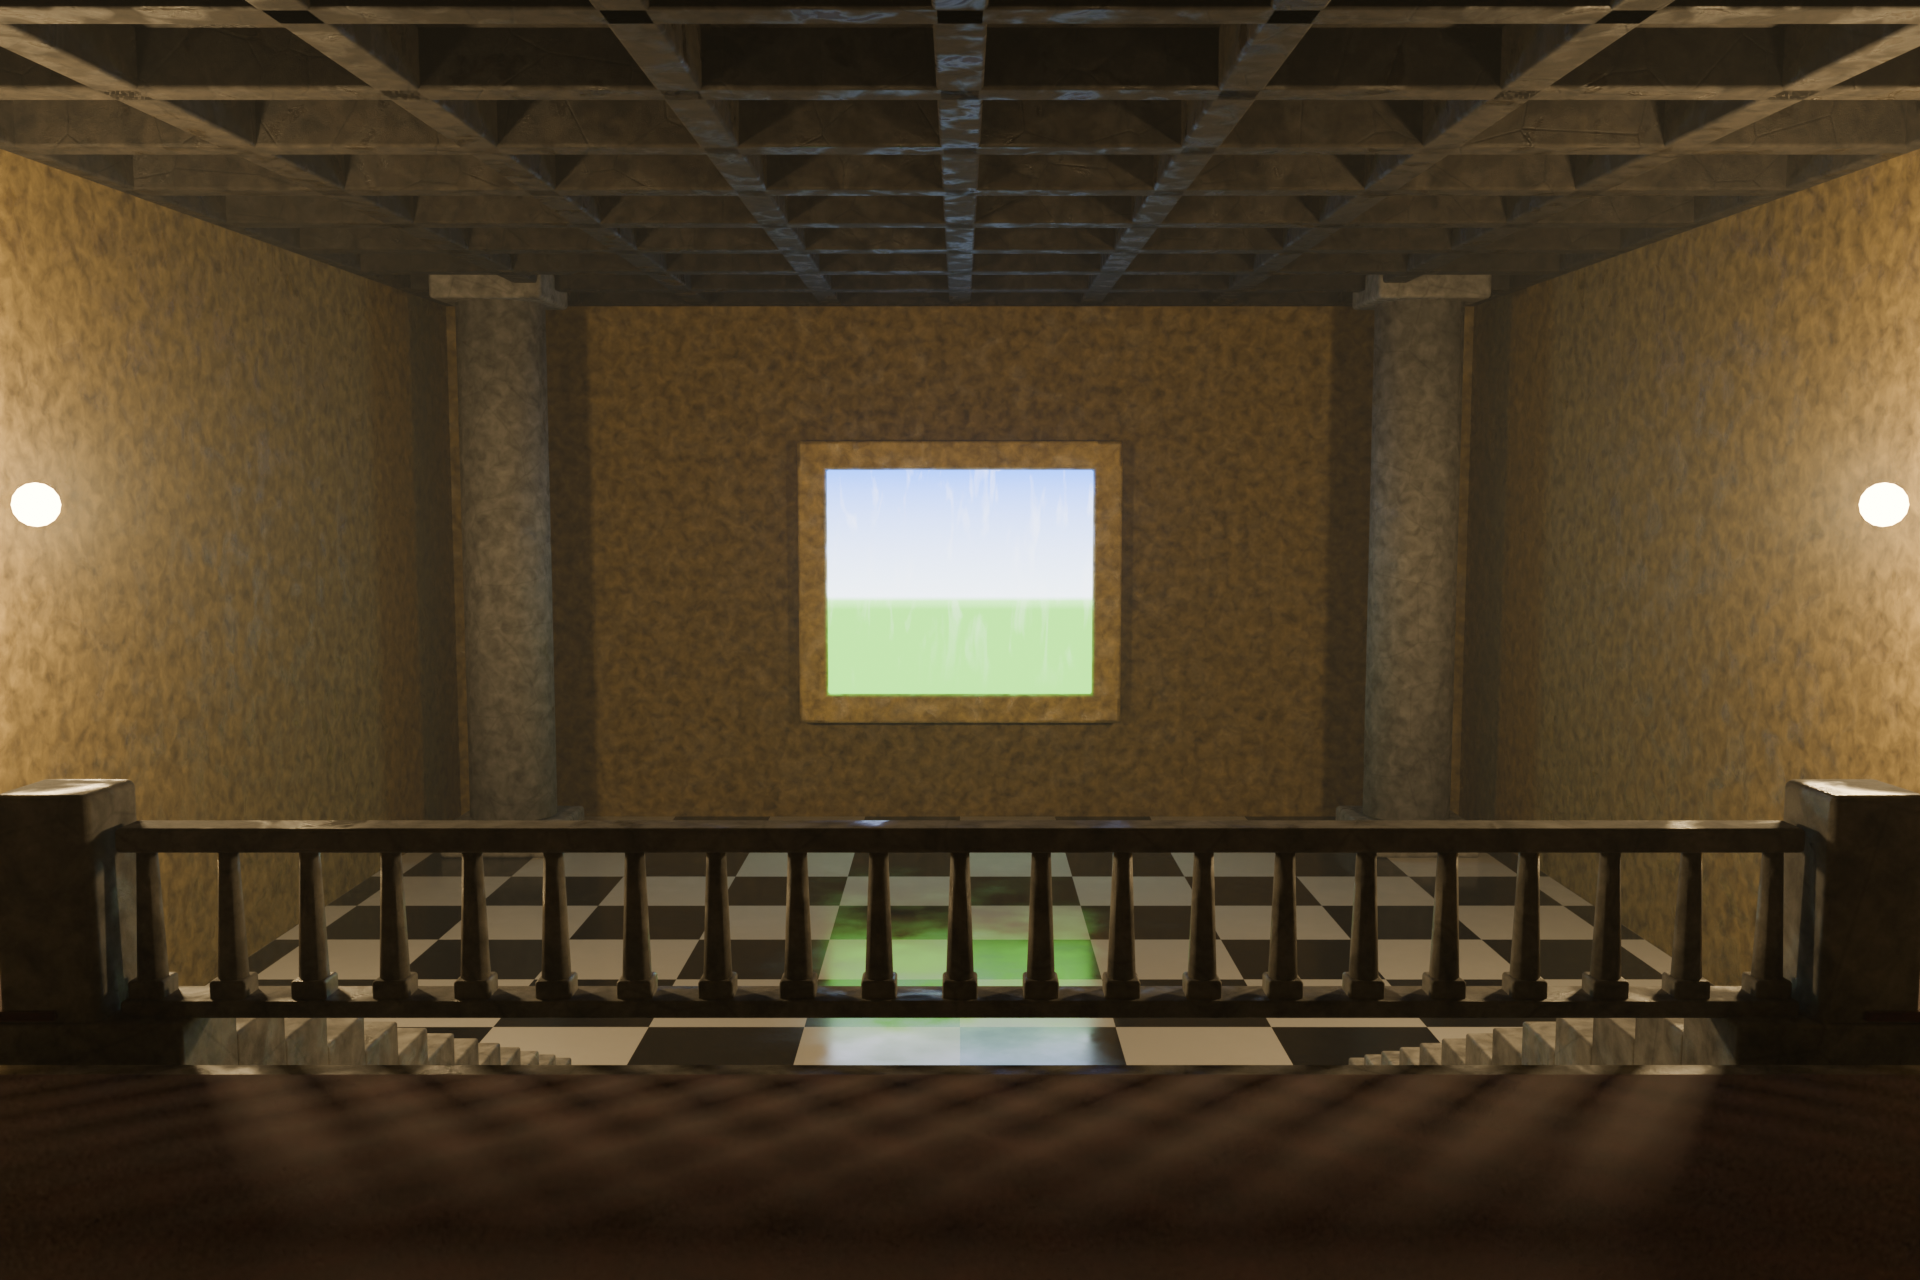
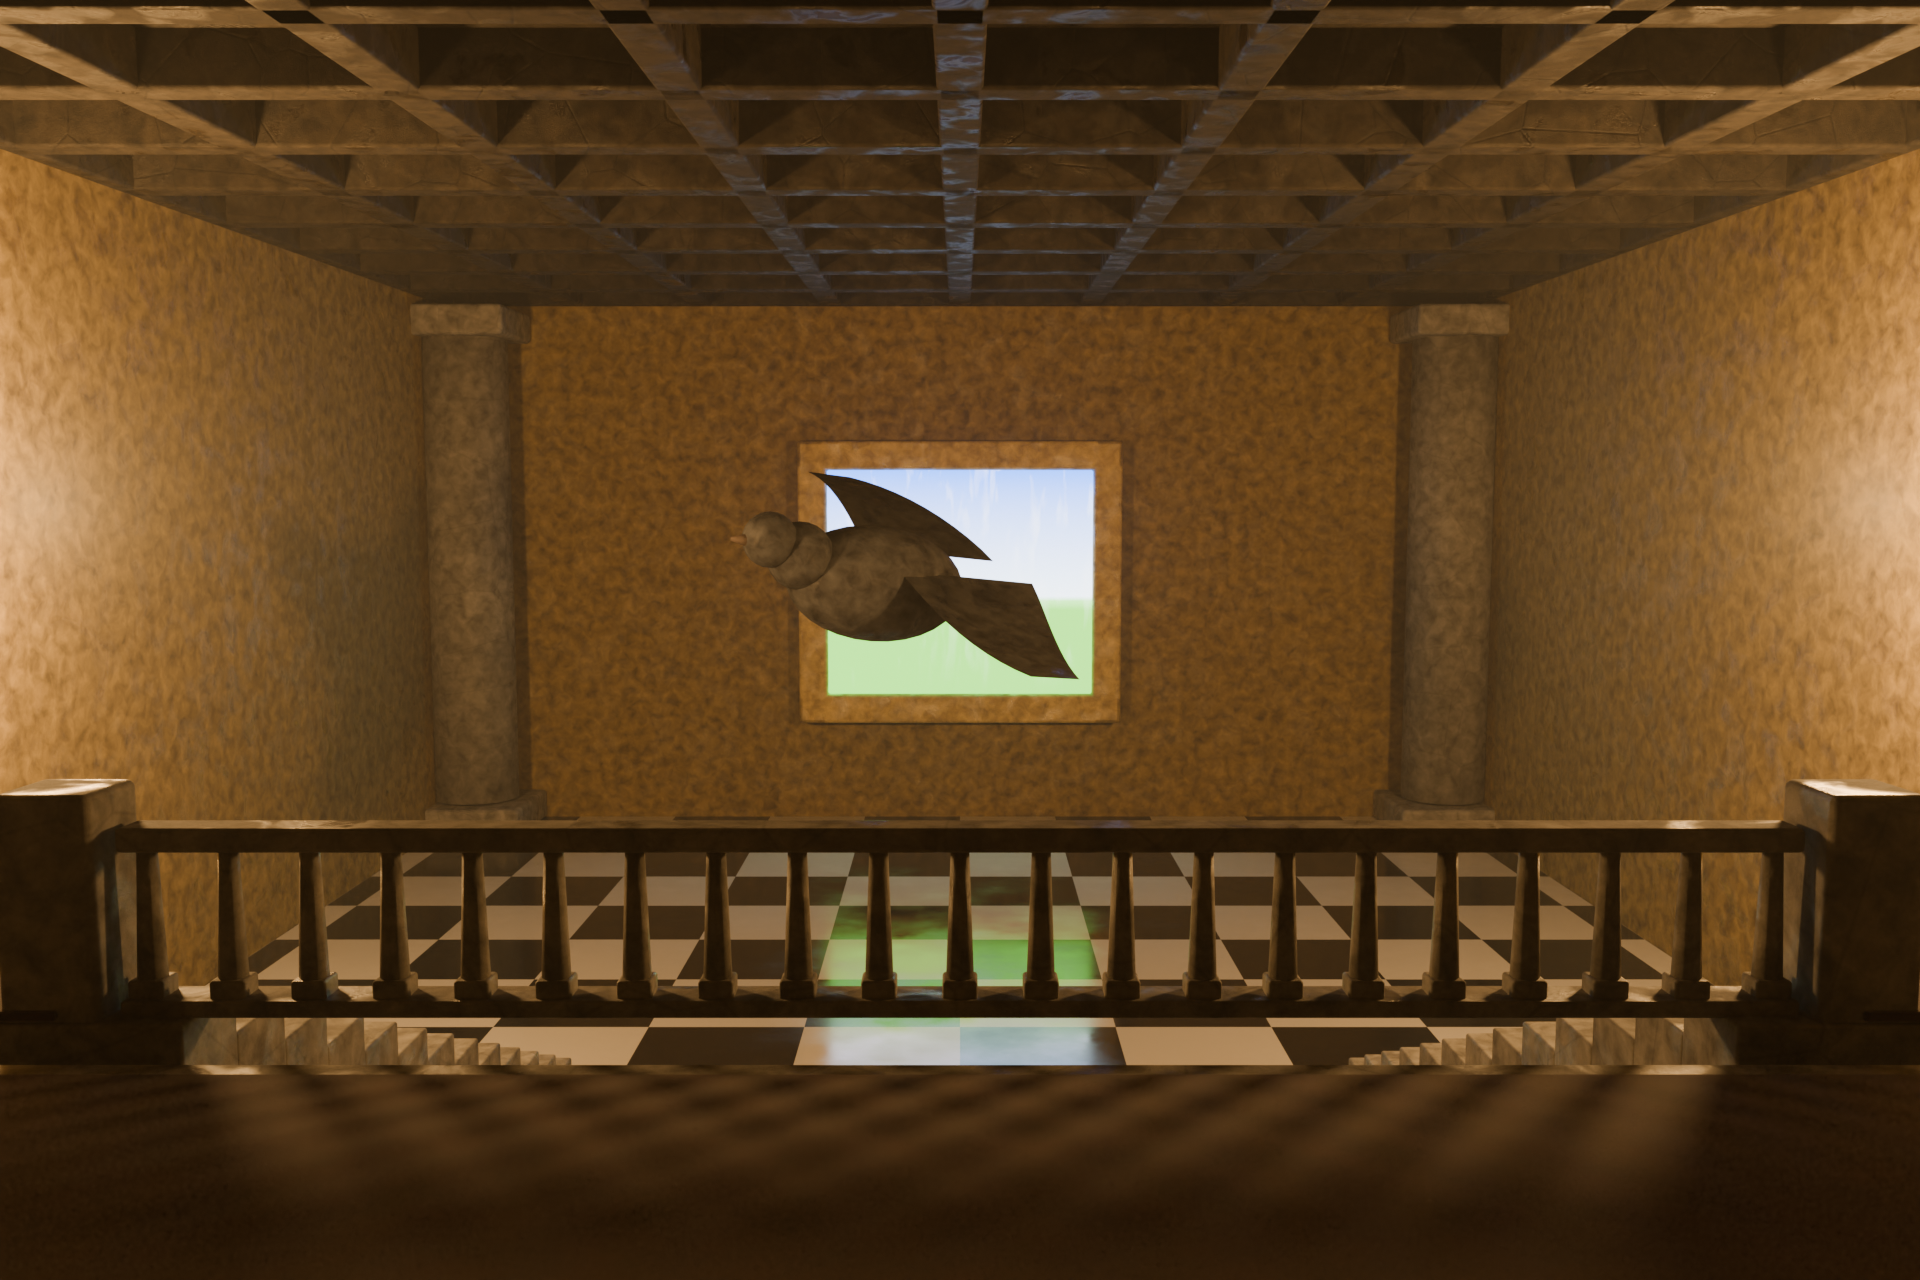
Something came through the painting
Five changes to the hall.

The sconces have no bulbs. A visible source is a bright disc the eye goes to
instead of going where the light lands, and there was nothing modelled on
the wall for it to be coming out of anyway -- so the lamps are gone and only
what they do is left. Warmer with it: 1.0/0.545/0.185, near amber.

The landing carpet is a third of the red it was. The columns moved into the
corners and stop 460mm below the ceiling line: `column` puts its capital at
`top - radius*0.4` and makes it `radius*0.7` deep, so a column run to the
full height pushes the capital up through the beams, which start 330mm
below it. That was the clipping.

And a pigeon, six metres across, banking out of the picture and down the
hall. `wing` builds a planform rather than a shape -- chord widest at the
shoulder and tapering, swept, lifting then falling -- because a wing is only
ever seen as a silhouette and a flat triangle reads as a paper aeroplane.

It is turned three-quarters across the room, and that is not decoration. A
wing is a sheet: aimed at the lens it is a wire, and the first pass had the
bird flying straight down the hall with two hairlines where its wings should
have been.

This is a bird I modelled here, not the one from the shirt -- there is no
such asset in this repository or its history, so there was nothing to import.
`pigeon()` takes its wingspan as the scale and everything else follows from
it, so swapping in a real model later means replacing one call.

diff --git a/art/blender/scenes.py b/art/blender/scenes.py
@@ -775,6 +775,108 @@ def jungle_tree(x, y, trunk_material, leaf_material, height=14.0, girth=0.72,
     return made
 
 
+def wing(shoulder, span_dir, fore_dir, span, chord, material, sweep=0.34,
+         dihedral=0.30, droop=0.55, ribs=10, name="Wing"):
+    """One wing, as a planform rather than a shape.
+
+    Chord widest at the shoulder and tapering out, swept back along the way,
+    lifting then falling toward the tip. All four of those are what makes a
+    bird silhouette read as a bird -- a flat triangle stuck on a body reads
+    as a paper aeroplane, and a wing is only ever seen as a silhouette
+    anyway.
+    """
+    across = Vector(span_dir).normalized()
+    fore = Vector(fore_dir).normalized()
+    up = across.cross(fore).normalized()
+    verts, faces = [], []
+    for index in range(ribs + 1):
+        travel = index / ribs
+        lift = dihedral * span * travel - droop * span * travel ** 2.2
+        lead = (Vector(shoulder) + across * (span * travel)
+                - fore * (sweep * span * travel) + up * lift)
+        wide = chord * (1.0 - 0.66 * travel ** 1.15)
+        verts.append(tuple(lead))
+        verts.append(tuple(lead - fore * wide))
+        if index:
+            back = (index - 1) * 2
+            here = index * 2
+            faces.append((back, back + 1, here + 1, here))
+    mesh = bpy.data.meshes.new(name)
+    mesh.from_pydata(verts, [], faces)
+    mesh.update()
+    obj = bpy.data.objects.new(name, mesh)
+    bpy.context.collection.objects.link(obj)
+    obj.data.materials.append(material)
+    for polygon in obj.data.polygons:
+        polygon.use_smooth = True
+    return obj
+
+
+def pigeon(location, facing, scale, body_material, wing_material,
+           beak_material=None, pitch=0.16, bank=0.0, name="Pigeon"):
+    """A pigeon in flight, at whatever size you like.
+
+    `scale` is the wingspan, because that is the measurement anybody has an
+    instinct for. Everything else is a fraction of it, so a six-metre bird is
+    the same bird as a thirty-centimetre one and not a differently-shaped
+    animal that happens to be large.
+    """
+    made = []
+    fore = Vector((math.cos(facing), math.sin(facing), 0.0)).normalized()
+    fore = (fore + Vector((0, 0, pitch))).normalized()
+    side = fore.cross(Vector((0, 0, 1))).normalized()
+    up = side.cross(fore).normalized()
+    if bank:
+        side = (side + up * bank).normalized()
+        up = side.cross(fore).normalized()
+    here = Vector(location)
+
+    body_len = scale * 0.42
+    bpy.ops.mesh.primitive_uv_sphere_add(radius=1.0, segments=28, ring_count=16,
+                                         location=tuple(here))
+    body = bpy.context.active_object
+    body.name = name
+    body.rotation_mode = "QUATERNION"
+    body.rotation_quaternion = fore.to_track_quat("Y", "Z")
+    body.scale = (scale * 0.115, body_len / 2, scale * 0.125)
+    body.data.materials.append(body_material)
+    for polygon in body.data.polygons:
+        polygon.use_smooth = True
+    made.append(body)
+
+    neck = here + fore * body_len * 0.46 + up * scale * 0.045
+    head = neck + fore * scale * 0.075 + up * scale * 0.028
+    made.append(look.sphere(tuple(neck), scale * 0.072, body_material,
+                            segments=20, rings=12, name=name))
+    made.append(look.sphere(tuple(head), scale * 0.058, body_material,
+                            segments=20, rings=12, name=name))
+    bpy.ops.mesh.primitive_cone_add(
+        vertices=10, radius1=scale * 0.021, radius2=scale * 0.004,
+        depth=scale * 0.062,
+        location=tuple(head + fore * scale * 0.055 - up * scale * 0.006))
+    beak = bpy.context.active_object
+    beak.name = name
+    beak.rotation_mode = "QUATERNION"
+    beak.rotation_quaternion = fore.to_track_quat("Z", "Y")
+    beak.data.materials.append(beak_material or body_material)
+    for polygon in beak.data.polygons:
+        polygon.use_smooth = True
+    made.append(beak)
+
+    for hand in (-1, 1):
+        shoulder = here + side * hand * scale * 0.085 + up * scale * 0.055
+        made.append(wing(tuple(shoulder), side * hand, fore,
+                         scale * 0.46, scale * 0.34, wing_material,
+                         sweep=0.13, dihedral=0.34, droop=0.20,
+                         name=f"{name}Wing"))
+    # Tail: the same planform, short and wide, run out the back.
+    made.append(wing(tuple(here - fore * body_len * 0.44 - up * scale * 0.012),
+                     -fore, side, scale * 0.20, scale * 0.19, wing_material,
+                     sweep=-0.30, dihedral=0.04, droop=0.10, ribs=6,
+                     name=f"{name}Tail"))
+    return made
+
+
 def column(x, y, base, top, radius, material, sides=16, name="Column"):
     """A column with a foot and a head, because a bare cylinder is a pipe."""
     made = []
@@ -1965,7 +2067,7 @@ def painted_hall(path):
                    seed=44, mortar=0.45, relief=0.9,
                    dark=(0.010, 0.009, 0.008, 1.0),
                    tint=(0.055, 0.046, 0.036, 1.0))
-    carpet = look.heavy_cloth("Carpet", colour=(0.155, 0.016, 0.014, 1.0),
+    carpet = look.heavy_cloth("Carpet", colour=(0.062, 0.0055, 0.0050, 1.0),
                               seed=6)
     tiles = look.checker("Chequer", square=0.95, roughness=0.055,
                          dark=(0.009, 0.009, 0.011, 1.0),
@@ -2022,8 +2124,12 @@ def painted_hall(path):
                    pale, bevel=0.05, name="NewelPost")
 
     # --- columns in the far corners --------------------------------------
+    # Into the corners, and stopped below the roof. The capital sits at
+    # `top - radius*0.4` and is `radius*0.7` deep, so a column run to CEILING
+    # pushes it up through the beams -- which start 0.33 below the ceiling
+    # line and were being cut into.
     for side in (-1, 1):
-        column(side * 8.2, DEEP - 2.6, FLOOR, CEILING, 0.78, pale)
+        column(side * 9.35, DEEP - 1.05, FLOOR, CEILING - 0.46, 0.80, pale)
 
     # --- the painting ----------------------------------------------------
     VIEW_W, VIEW_H, VIEW_Z = 5.2, 4.4, 2.5
@@ -2045,16 +2151,41 @@ def painted_hall(path):
         look.block((dx, DEEP - 0.20, VIEW_Z + VIEW_H / 2 + dz), (w, 0.42, h),
                    gilt, bevel=0.07, name="Frame")
 
+    # --- and something that just came through -------------------------
+    #
+    # Six metres across, banking out of the picture and down the hall. It is
+    # lit almost entirely from behind by the thing it came out of, which is
+    # the point: a silhouette with a rim on it says "arrived from there"
+    # where a well-lit bird would just be a bird standing in a room.
+    slate = dressed("Pigeon", block_scale=3.0, wetness=0.34, mossy=False,
+                    seed=131, mortar=0.0, relief=0.45,
+                    dark=(0.028, 0.030, 0.040, 1.0),
+                    tint=(0.150, 0.163, 0.196, 1.0))
+    quill = dressed("Flight feather", block_scale=2.2, wetness=0.28,
+                    mossy=False, seed=137, mortar=0.0, relief=0.55,
+                    dark=(0.017, 0.018, 0.024, 1.0),
+                    tint=(0.098, 0.106, 0.130, 1.0))
+    horn = dressed("Beak", block_scale=4.0, wetness=0.30, mossy=False,
+                   seed=139, mortar=0.0, relief=0.4,
+                   dark=(0.060, 0.045, 0.040, 1.0),
+                   tint=(0.230, 0.180, 0.165, 1.0))
+    # Three-quarter, not head-on. A wing is a sheet: pointed at the lens it
+    # is a wire, and the first pass had the bird flying straight down the
+    # hall with two hairlines where its wings should be. Turned across the
+    # room it presents both of them.
+    pigeon((-1.1, 13.4, 5.30), math.radians(212.0), 6.1, slate, quill,
+           beak_material=horn, pitch=0.11, bank=0.26)
+
     # --- light -----------------------------------------------------------
     # Two sconces, warm and weak, only there to keep the corners from being
     # holes. Everything else in the room is lit by the picture.
+    # No bulbs. A visible source is a bright disc the eye goes to instead of
+    # going where the light lands, and there was nothing on the wall for it
+    # to be coming out of anyway -- so the lamps are just gone and only what
+    # they do is left.
     for side in (-1, 1):
-        look.point_light((side * 8.4, 7.0, 6.4), energy=1500,
-                         radius=0.35, color=(1.0, 0.72, 0.36))
-        look.sphere((side * 8.4, 7.0, 6.4), 0.20,
-                    look.glowing("Sconce", colour=(1.0, 0.66, 0.30, 1.0),
-                                 strength=16.0), segments=14, rings=8,
-                    name="Sconce")
+        look.point_light((side * 8.4, 7.0, 6.4), energy=1700,
+                         radius=0.45, color=(1.0, 0.545, 0.185))
 
     # Air, so the picture throws a shaft rather than just a pool.
     # Enough to carry a shaft, not enough to fill the room. At 0.010 the far
